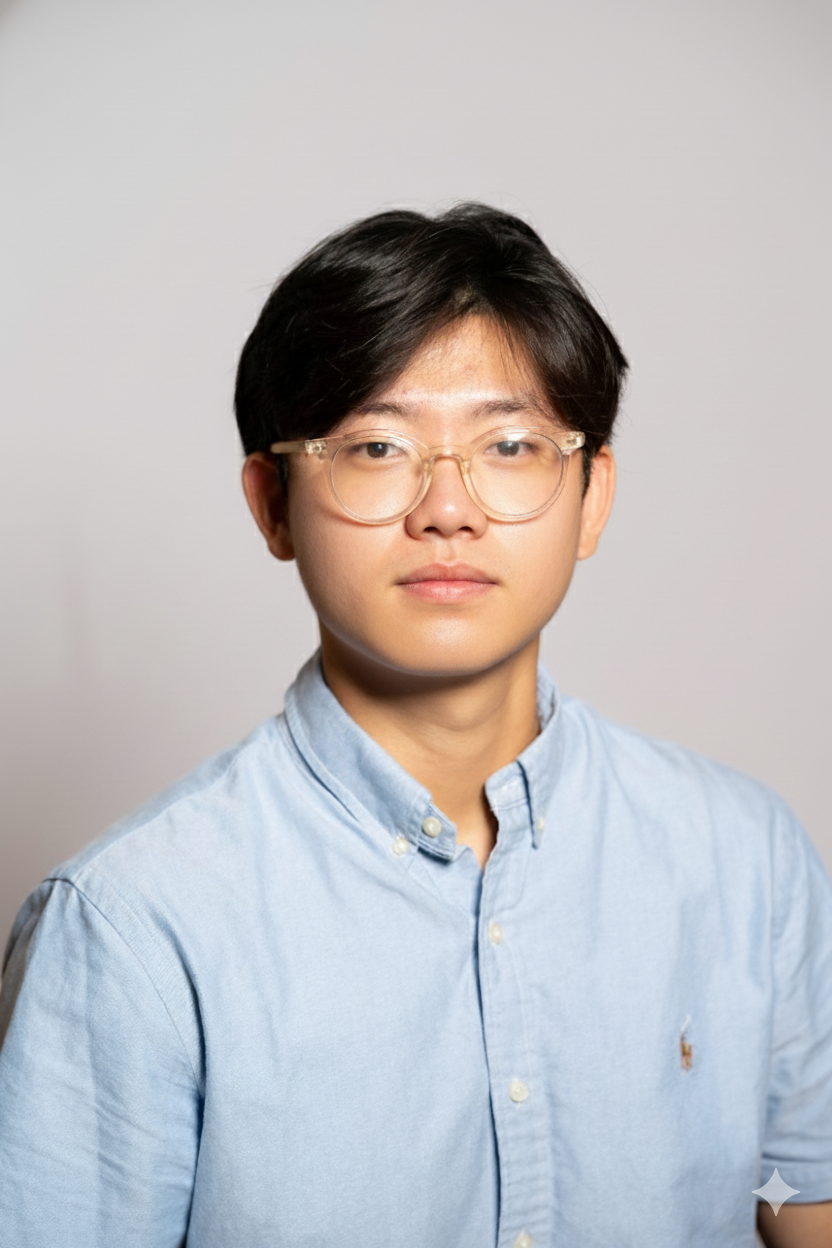
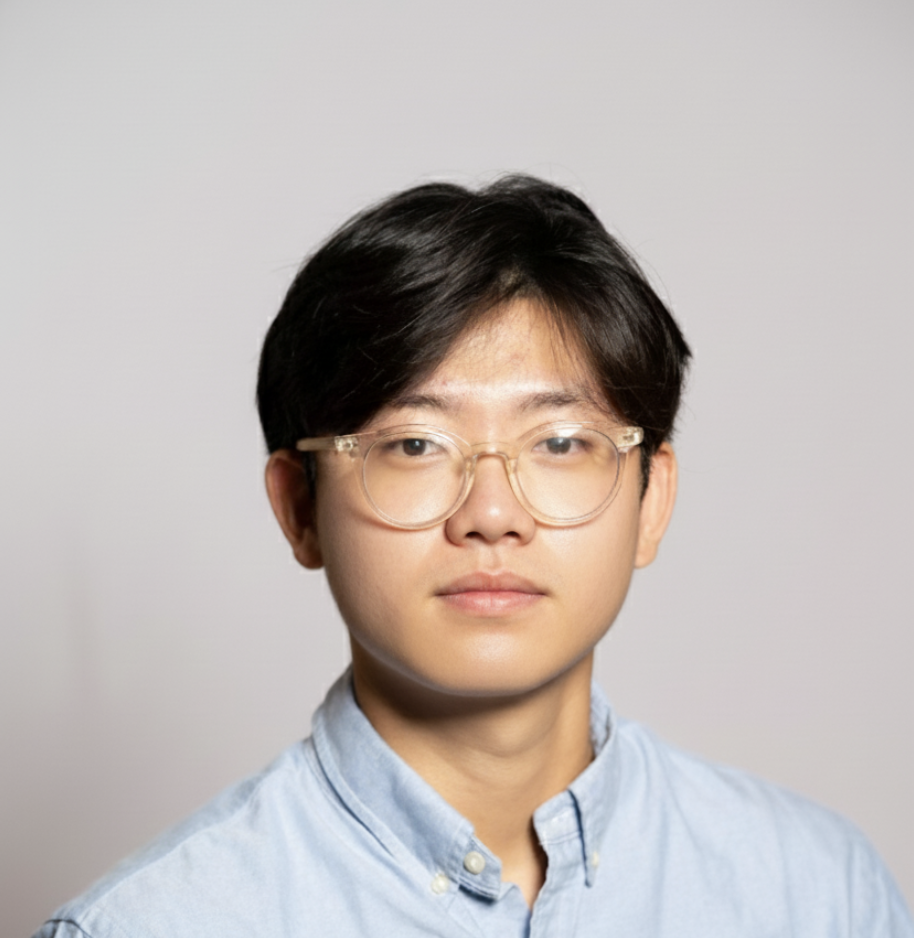
added back button

diff --git a/public/app/events/[slug]/questionnaire/page.tsx b/public/app/events/[slug]/questionnaire/page.tsx
@@ -9,6 +9,7 @@ import { use, useEffect, useState } from "react";
 import { PearAlert } from "@/components/PearAlert";
 import { useRouter } from "next/navigation";
 import { useAuth } from "@/contexts/AuthContext";
+import { ArrowLeft } from "lucide-react";
 
 interface QuestionnairePageProps {
   params: Promise<{ slug: string }>;
@@ -17,17 +18,17 @@ interface QuestionnairePageProps {
 function validateAnswers(questions: any[], answers: Record<number, string>) {
   const invalidAnswers = [];
 
-  for (const [index, q] of questions.entries())  {
+  for (const [index, q] of questions.entries()) {
     const question_id = q.id;
     const value = answers[question_id];
 
     if (!value || value.trim() === "") {
-      invalidAnswers.push(index+1);
+      invalidAnswers.push(index + 1);
       continue;
     }
 
     if (q.options && q.options.length > 0 && !q.options.includes(value)) {
-      invalidAnswers.push(index+1);
+      invalidAnswers.push(index + 1);
     }
   }
 
@@ -65,10 +66,10 @@ export default function QuestionnairePage({ params }: QuestionnairePageProps) {
         | null;
       return storedUserType || "student";
     }
-    
+
     return "student"; // Default to student
   };
-  
+
   const userType = getUserType();
   const isOrganizationUser = userType === "organization";
 
@@ -85,18 +86,18 @@ export default function QuestionnairePage({ params }: QuestionnairePageProps) {
       const participantsRes = await fetch(`${apiUrl}/events/${event_id}/participants`, {
         credentials: "include",
       });
-      
+
       if (participantsRes.ok) {
         const participantsData = await participantsRes.json();
         setParticipants(participantsData);
-        
+
         // Fetch all responses for all participants
         const responsePromises = participantsData.map(async (participant: any) => {
           try {
             const responseRes = await fetch(`${apiUrl}/questionnaire/${event_id}/${participant.user_id}`, {
               credentials: 'include',
             });
-            
+
             if (responseRes.ok) {
               const responseData = await responseRes.json();
               return responseData.answers || [];
@@ -106,7 +107,7 @@ export default function QuestionnairePage({ params }: QuestionnairePageProps) {
             return [];
           }
         });
-        
+
         const allResponsesArrays = await Promise.all(responsePromises);
         const flattenedResponses = allResponsesArrays.flat();
         setAllResponses(flattenedResponses);
@@ -124,7 +125,7 @@ export default function QuestionnairePage({ params }: QuestionnairePageProps) {
       const data = await res.json();
       if (res.ok) {
         setQuestions(data.questions || []);
-        
+
         // For students, load their existing answers
         if (!isOrganizationUser) {
           const normalizedAnswers: Record<number, string> = (
@@ -186,7 +187,7 @@ export default function QuestionnairePage({ params }: QuestionnairePageProps) {
         await get_questions();
       }
     };
-    
+
     if (event_id && !isNaN(event_id) && user_id) {
       verify_registration();
     } else if (!user_id && user === null) {
@@ -198,7 +199,7 @@ export default function QuestionnairePage({ params }: QuestionnairePageProps) {
     }
   }, [event_id, user_id, apiUrl, router, user, isOrganizationUser]);
 
-  
+
 
   const handleSubmit = async () => {
     if (!user_id) {
@@ -310,6 +311,15 @@ export default function QuestionnairePage({ params }: QuestionnairePageProps) {
       <Navbar userType={userType} />
       <div className="min-h-screen bg-[#EBECE4]">
         <div className="flex flex-col items-center p-6 pt-12">
+          <div className="w-full max-w-6xl mb-4">
+            <button
+              onClick={() => router.push(`/events/${event_id}`)}
+              className="flex items-center text-gray-600 hover:text-gray-900 transition-colors"
+            >
+              <ArrowLeft className="w-5 h-5 mr-2" />
+              Back to Program
+            </button>
+          </div>
           <div className="text-center mb-8 max-w-2xl">
             <h1 className="text-4xl font-bold text-gray-800 mb-4">
               {isOrganizationUser ? "Program Responses" : "Questionnaire Form"}
@@ -321,7 +331,7 @@ export default function QuestionnairePage({ params }: QuestionnairePageProps) {
             </p>
             {alert && <PearAlert type={alert.type} message={alert.message} />}
           </div>
-          
+
           {isOrganizationUser ? (
             // Organization view - Show all responses
             <div className="w-full max-w-6xl bg-white rounded-2xl shadow-xl border border-gray-100">
@@ -361,7 +371,7 @@ export default function QuestionnairePage({ params }: QuestionnairePageProps) {
                         />
                       ))}
                     </div>
-                    
+
                     <div className="text-center pt-8">
                       <PearButton
                         text="Back to Program"

diff --git a/public/app/about/page.tsx b/public/app/about/page.tsx
@@ -4,6 +4,7 @@ import Navbar from "@/components/Navbar";
 import Footer from "@/components/Footer";
 import { useState } from "react";
 import LoginModal from "@/components/LoginModal";
+import OrganizationCarousel from "@/components/OrganizationCarousel";
 
 export default function About() {
     const [isLoginModalOpen, setIsLoginModalOpen] = useState(false);
@@ -13,10 +14,10 @@ export default function About() {
 
     const teamMembers = [
         { name: "Sungmin Kim", role: "Project Lead", image: "/sungmin.jpg" },
-        { name: "Dongkon Lee", role: "Full Stack Developer", image: "/DK.png" },
-        { name: "Gary Yang", role: "Full Stack Developer" },
+        { name: "Dongkon Lee", role: "Full Stack Developer", image: "/dk.png" },
+        { name: "Gary Yang", role: "Full Stack Developer", image: "/gary.png" },
         { name: "Nadula", role: "Full Stack Developer", image: "/nadula.jpg" },
-        { name: "Jaden", role: "Full Stack Developer", image: "/jaden.jpg" },
+        { name: "Jaden", role: "Full Stack Developer", image: "/jaden.png" },
     ];
 
     return (
@@ -52,6 +53,12 @@ export default function About() {
 
 
 
+                {/* Organization Carousel */}
+                <section className="py-10 bg-white border-y border-gray-100">
+                    <h2 className="text-2xl font-bold text-[#393D3F] mb-6 text-center opacity-80">Trusted by</h2>
+                    <OrganizationCarousel />
+                </section>
+
                 {/* Our Team Section */}
                 <section className="py-16 px-8 bg-gray-50">
                     <div className="max-w-5xl mx-auto">
@@ -73,7 +80,8 @@ export default function About() {
                                             member.name.charAt(0)
                                         )}
                                     </div>
-                                    <h3 className="text-xl font-bold text-[#393D3F] mb-2">{member.name}</h3>
+                                    <h3 className="text-xl font-bold text-[#393D3F] mb-1">{member.name}</h3>
+                                    <p className="text-gray-500 text-sm mb-2">Princeton University</p>
                                     <p className="text-gray-600 font-medium">{member.role}</p>
                                 </div>
                             ))}

diff --git a/public/app/events/[slug]/questions/page.tsx b/public/app/events/[slug]/questions/page.tsx
@@ -8,7 +8,7 @@ import { PearAlert } from "@/components/PearAlert";
 import PearButton from "@/components/PearButton";
 import PearForm from "@/components/PearForm";
 import { Card, CardContent } from "@/components/ui/card";
-import { XCircle } from "lucide-react";
+import { XCircle, ArrowLeft } from "lucide-react";
 
 interface QuestionnairePageProps {
   params: Promise<{ slug: string }>;
@@ -240,6 +240,15 @@ export default function EventQuestionsPage({ params }: QuestionnairePageProps) {
       <Navbar userType="organization" />
       <div className="min-h-screen bg-[#EBECE4] p-8">
         <div className="max-w-5xl mx-auto">
+          <div className="mb-6">
+            <button
+              onClick={() => router.push(`/events/${event_id}`)}
+              className="flex items-center text-gray-600 hover:text-gray-900 transition-colors"
+            >
+              <ArrowLeft className="w-5 h-5 mr-2" />
+              Back to Program
+            </button>
+          </div>
           <div className="flex flex-row justify-between items-start mb-8">
             <div>
               <h1 className="text-3xl font-bold mb-4">Questionnaire Page</h1>

diff --git a/public/app/page.tsx b/public/app/page.tsx
@@ -9,7 +9,7 @@ import Footer from "../components/Footer";
 import LoginModal from "../components/LoginModal";
 import Navbar from "@/components/Navbar";
 import PearButton from "@/components/PearButton";
-import OrganizationCarousel from "@/components/OrganizationCarousel";
+
 
 export default function Home() {
   const [isLoginModalOpen, setIsLoginModalOpen] = useState(false);
@@ -97,7 +97,7 @@ export default function Home() {
         </section>
       </main>
 
-      <OrganizationCarousel />
+
       <Footer />
       <LoginModal isOpen={isLoginModalOpen} onClose={closeLoginModal} />
     </div>
